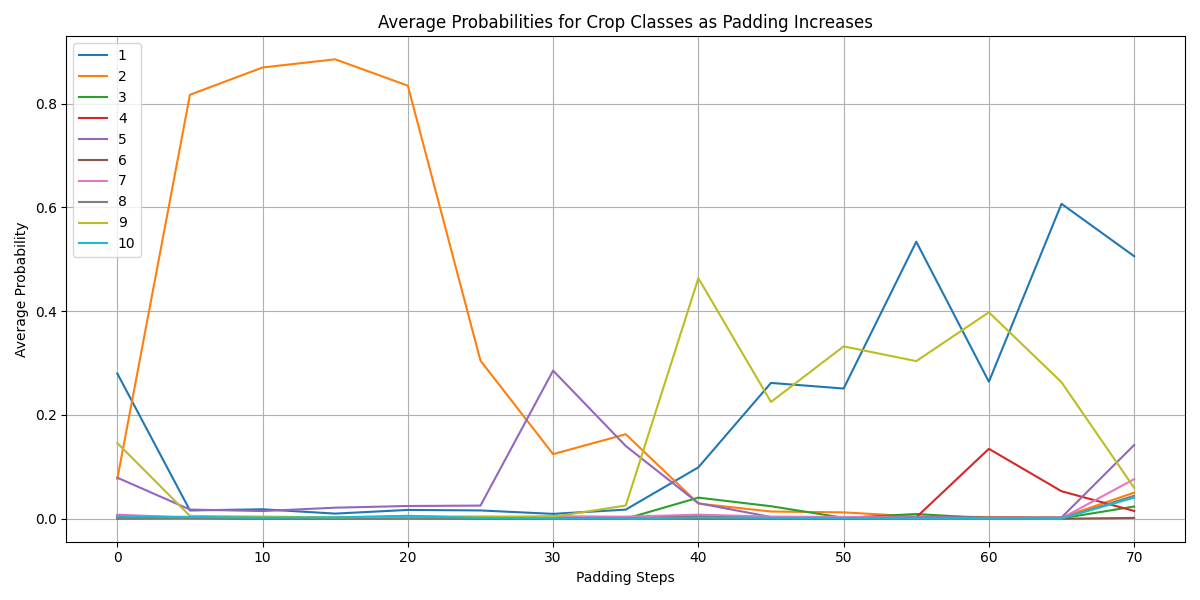
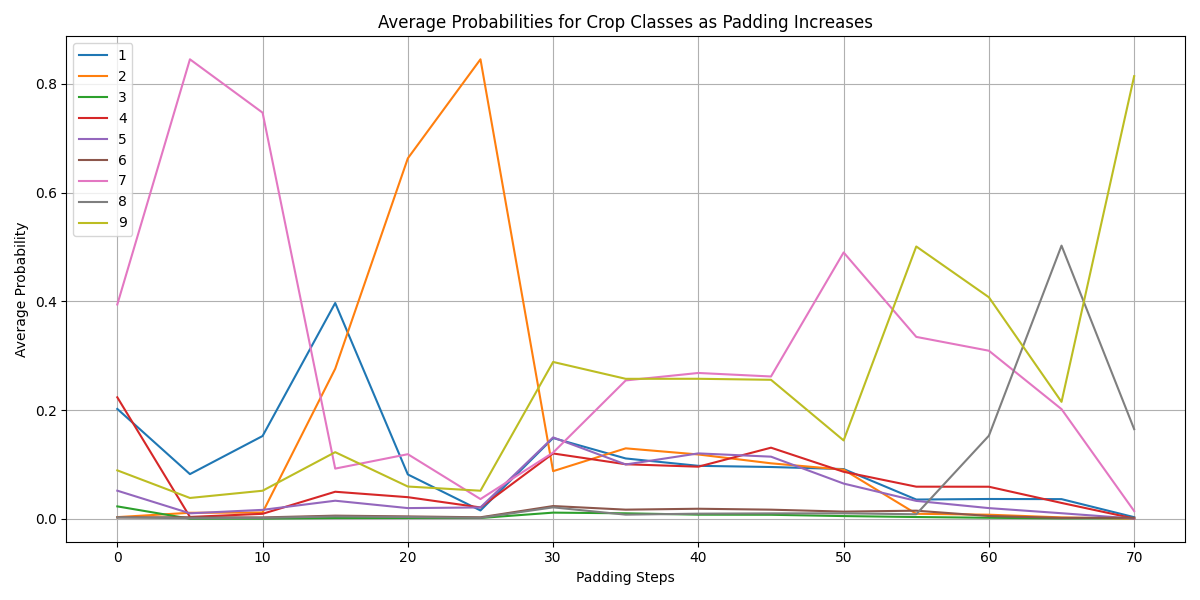
Add changes

diff --git a/playground/windowing/compute_padding_from_window.py b/playground/windowing/compute_padding_from_window.py
@@ -122,7 +122,7 @@ with open("dev_5943_2019.pkl", "rb") as f:
     data = pickle.load(f)
 
 # Model configuration and initialization
-num_classes = 11
+num_classes = 10
 MAX_SEQ_LEN = 71
 patch_size = 2
 window_size = 40
@@ -154,7 +154,7 @@ model = TSViT(
 
 # Load the model weights
 model.load_state_dict(
-    torch.load("../models/zuericrop10.pth", map_location=torch.device("cpu"))
+    torch.load("../models/zuericrop11.pth", map_location=torch.device("cpu"))
 )
 model.eval()  # Set model to evaluation mode
 
@@ -229,7 +229,7 @@ for class_idx in range(1, num_classes):  # Skipping class 0 (Background)
             for prob in average_probabilities_transposed[class_idx - 1]
         ]
         plt.plot(
-            padding_steps,
+            [step - window_size for step in padding_steps],  # X-axis values
             class_probabilities,  # Class-wise averages
             label=class_idx,
         )

diff --git a/playground/windowing/compute_padding_from_zero.py b/playground/windowing/compute_padding_from_zero.py
@@ -107,7 +107,7 @@ with open("dev_5943_2019.pkl", "rb") as f:
     data = pickle.load(f)
 
 # Model configuration and initialization
-num_classes = 11
+num_classes = 10
 MAX_SEQ_LEN = 71
 patch_size = 2
 
@@ -138,7 +138,7 @@ model = TSViT(
 
 # Load the model weights
 model.load_state_dict(
-    torch.load("../models/zuericrop10.pth", map_location=torch.device("cpu"))
+    torch.load("../models/zuericrop11.pth", map_location=torch.device("cpu"))
 )
 model.eval()  # Set model to evaluation mode
 
